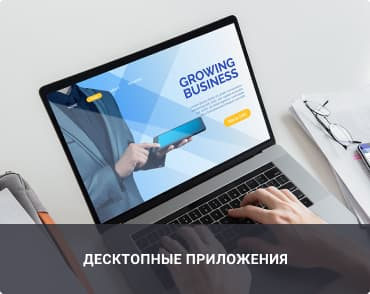
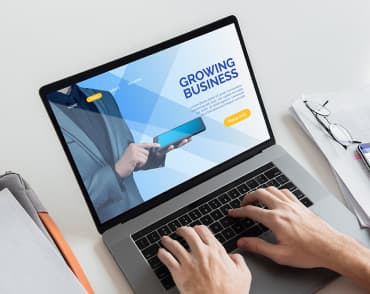
all done

Changed region(s): [[0.0, 0.7347, 1.0, 1.0]]

diff --git a/index.html b/index.html
@@ -132,15 +132,15 @@
           <ul class="dolist">
             <li class="item">
               <img src="./images/laptop.jpg" alt="ноутбук" />
-              <a href="">Десктопные приложения</a>
+              <h3 class="product">Десктопные приложения</h3>
             </li>
             <li class="item">
               <img src="./images/phone.jpg" alt="смартфон" />
-              <a href="">Мобильные приложения</a>
+              <h3 class="product">Мобильные приложения</h3>
             </li>
             <li class="item">
               <img src="./images/pc.jpg" alt="моноблок" />
-              <a href="">Дизайнерские решения</a>
+              <h3 class="product">Дизайнерские решения</h3>
             </li>
           </ul>
         </div>
@@ -413,7 +413,7 @@
 
             <button class="button">
               Подписаться
-              <svg width="24" height="24">
+              <svg class="plane" width="24" height="24">
                 <use href="./images/symbol-defs.svg#iconsend"></use>
               </svg>
             </button>

diff --git a/css/style.css b/css/style.css
@@ -292,17 +292,19 @@ ul {
 /* кнопки */
 .button {
   border-radius: 4px;
-  border: 2px solid transparent;
-  display: inline-block;
+  border: 0;
+
+  display: inline-flex;
   padding: 10px 32px;
   min-width: 200px;
   height: 50px;
+  line-height: 30px;
   text-decoration: none;
   text-align: center;
   align-items: center;
   color: var(--title-text-color);
   background-color: var(--accent-color);
-  font-weight: 900;
+  font-weight: bold;
   font-size: 16px;
   letter-spacing: 0.06em;
   font-family: Roboto;
@@ -384,6 +386,7 @@ ul {
 .dolist .item {
   width: 370px;
   justify-content: center;
+  position: relative;
 }
 .dolist .item:not(:last-child) {
   margin-right: 30px;
@@ -593,4 +596,25 @@ ul {
 
 .text {
   padding: 20px 24px;
+}
+
+.product {
+  position: absolute;
+  width: 100%;
+  left: 0;
+  bottom: 0;
+  margin: 0px;
+  background: rgba(47, 48, 58, 0.8);
+  color: var(--title-text-color);
+
+  text-transform: uppercase;
+  text-align: center;
+  font-size: 14px;
+  line-height: 1.14;
+  letter-spacing: 0.03em;
+  padding-top: 27px;
+  padding-bottom: 27px;
+}
+.plane {
+  margin-left: 10px;
 }
